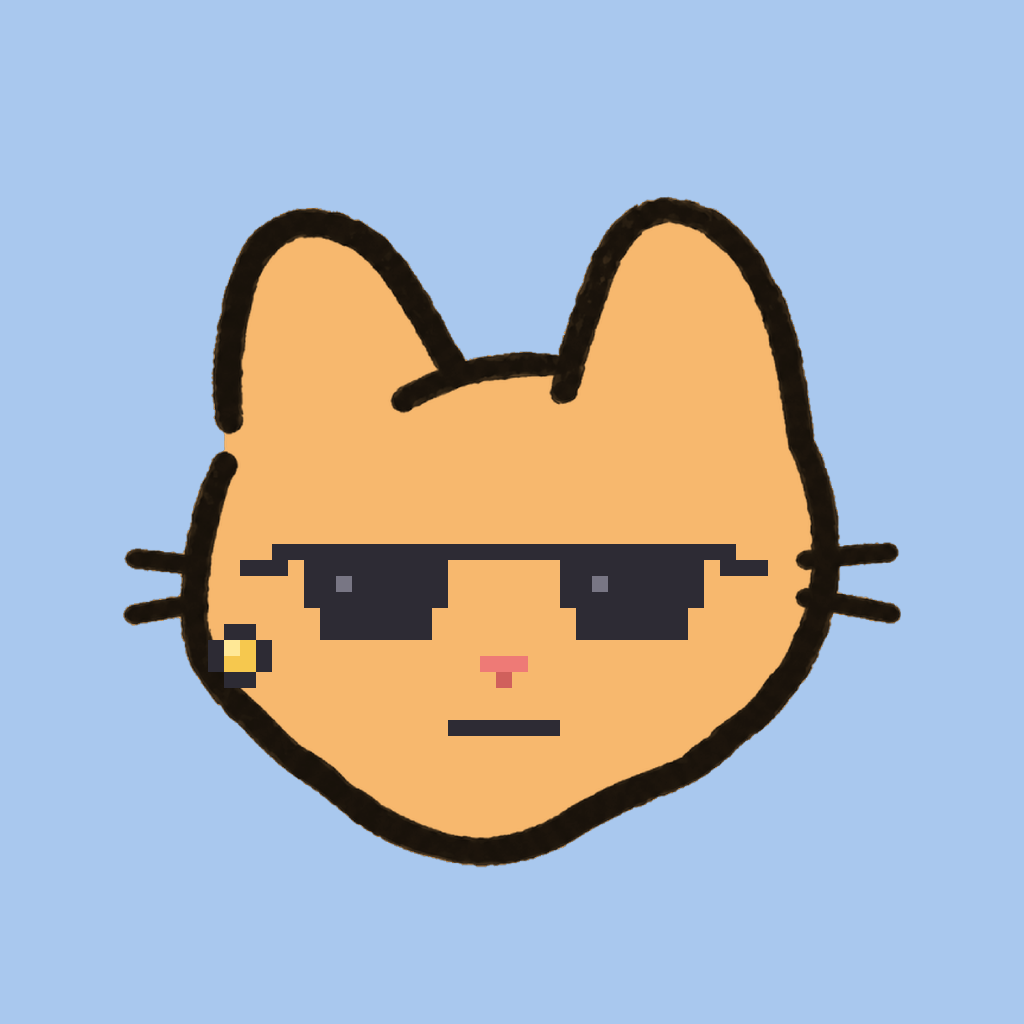
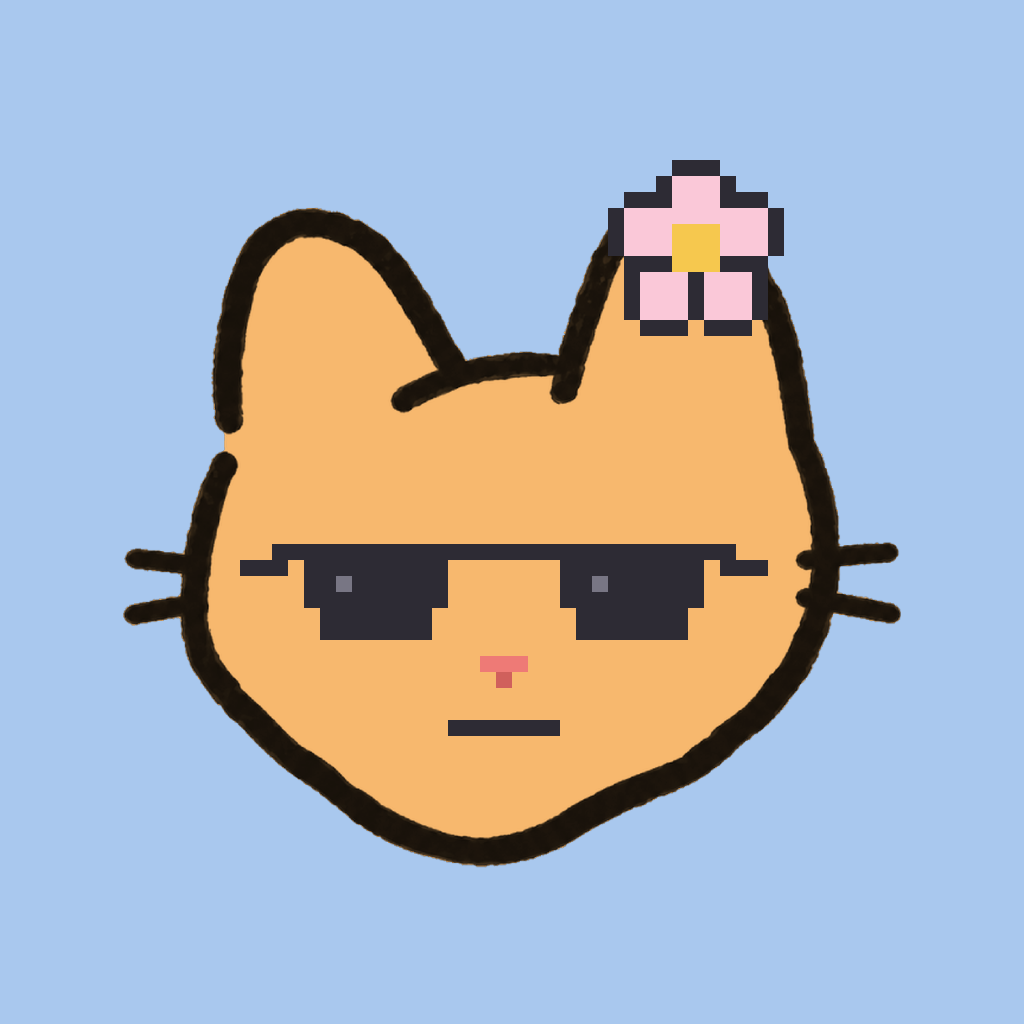
Remove the earring accessory

Changed region(s): [[0.5938, 0.1562, 0.7812, 0.3438], [0.1875, 0.5938, 0.2812, 0.6875]]

diff --git a/v3_layers.py b/v3_layers.py
@@ -289,14 +289,6 @@ def acc_flower():
     return c.save("acc-flower.png")
 
 
-def acc_earring():
-    c = Pix()
-    c.rect(14, 40, 15, 41, (246, 200, 78))
-    c.px(14, 40, (255, 232, 150))
-    c.outline()
-    return c.save("acc-earring.png")
-
-
 BACKGROUNDS = [
     ("periwinkle", "#9aa4ea"), ("plasma violet", "#7e60ac"),
     ("mint", "#a8dcc0"), ("rose", "#e8a0b4"), ("butter", "#f2d488"),
@@ -339,8 +331,7 @@ def main():
             {"name": "round-gold", "file": glasses_round("round-gold", (226, 178, 76))},
             {"name": "shades", "file": glasses_shades()}]},
         {"name": "Accessory", "optional": True, "layers": [
-            {"name": "flower", "file": acc_flower()},
-            {"name": "earring", "file": acc_earring()}]},
+            {"name": "flower", "file": acc_flower()}]},
     ]
 
     manifest = {

diff --git a/v3_generate.py b/v3_generate.py
@@ -44,7 +44,7 @@ WEIGHTS = {
     "Blush": {"None": 70, "blush": 30},
     "Glasses": {"None": 65, "round-lavender": 25, "shades": 18,
                 "round-gold": 15},
-    "Accessory": {"None": 60, "earring": 25, "flower": 20},
+    "Accessory": {"None": 70, "flower": 30},
 }
 
 
